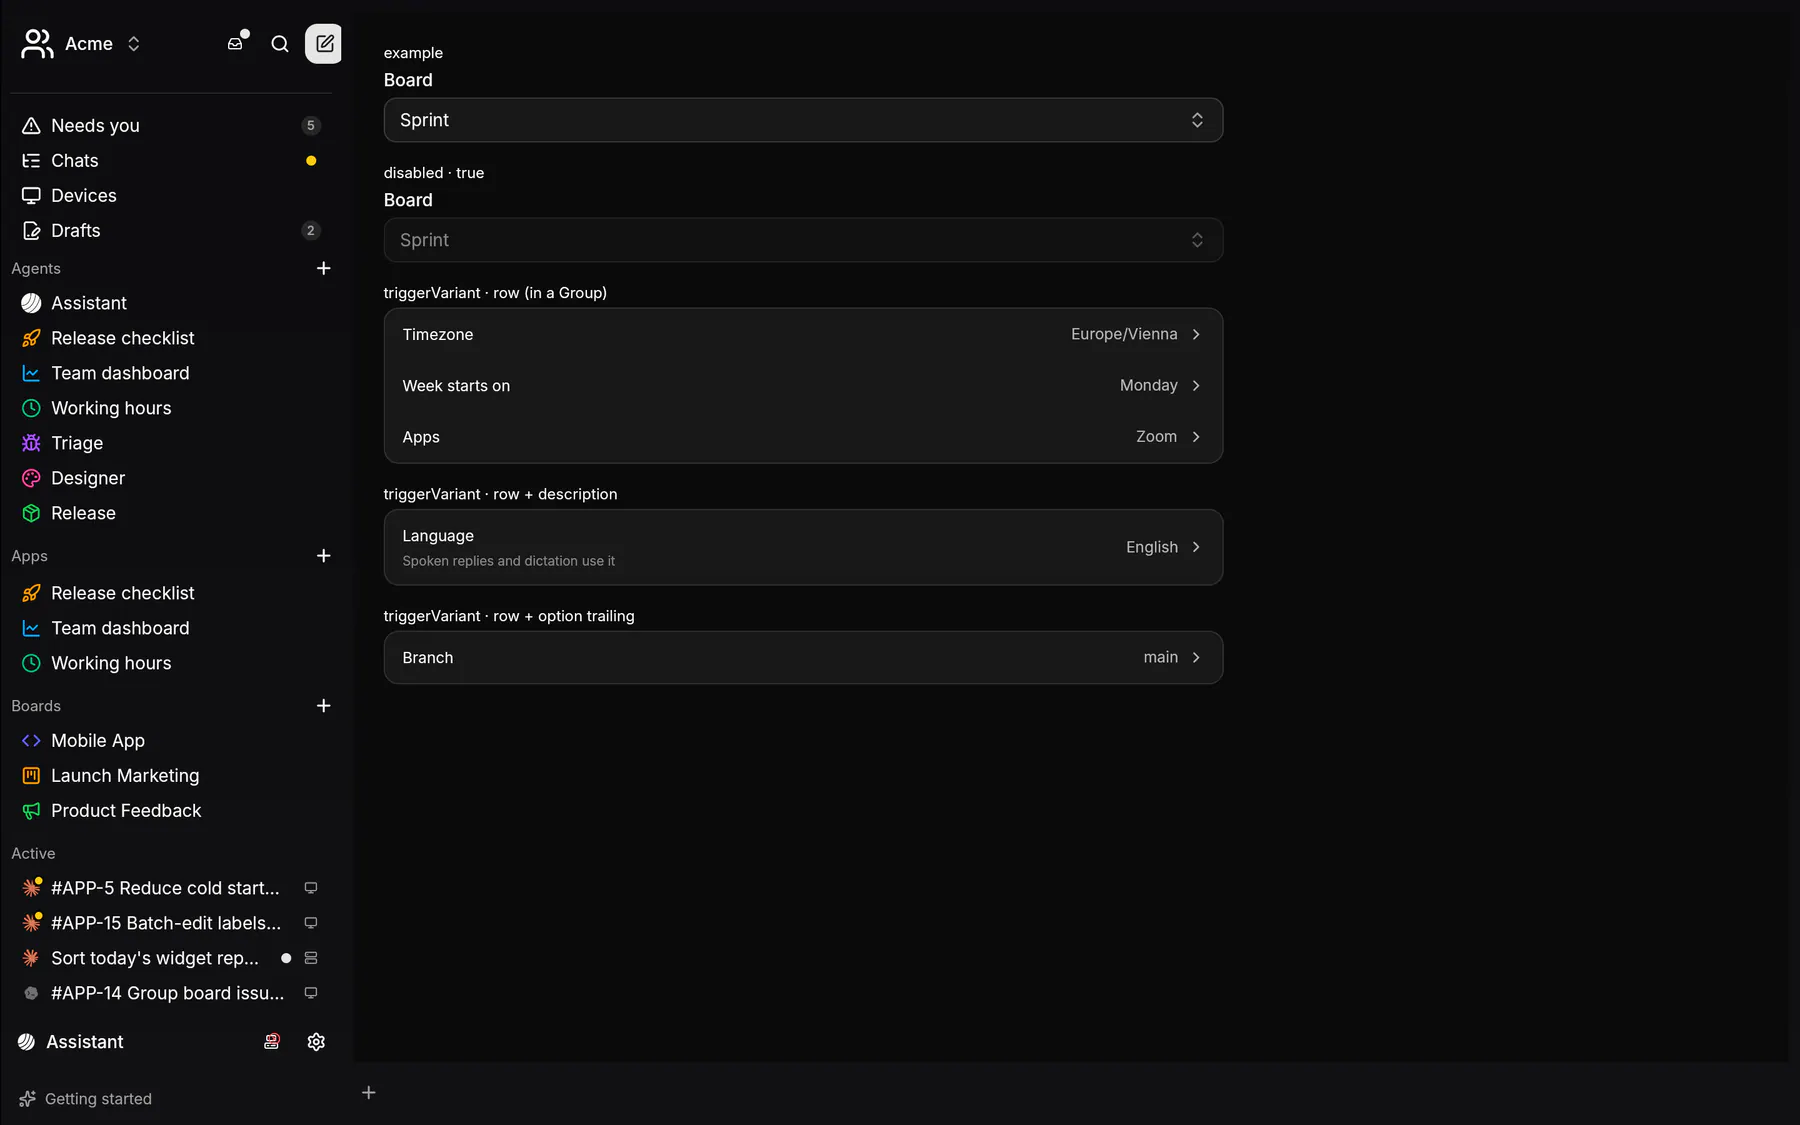
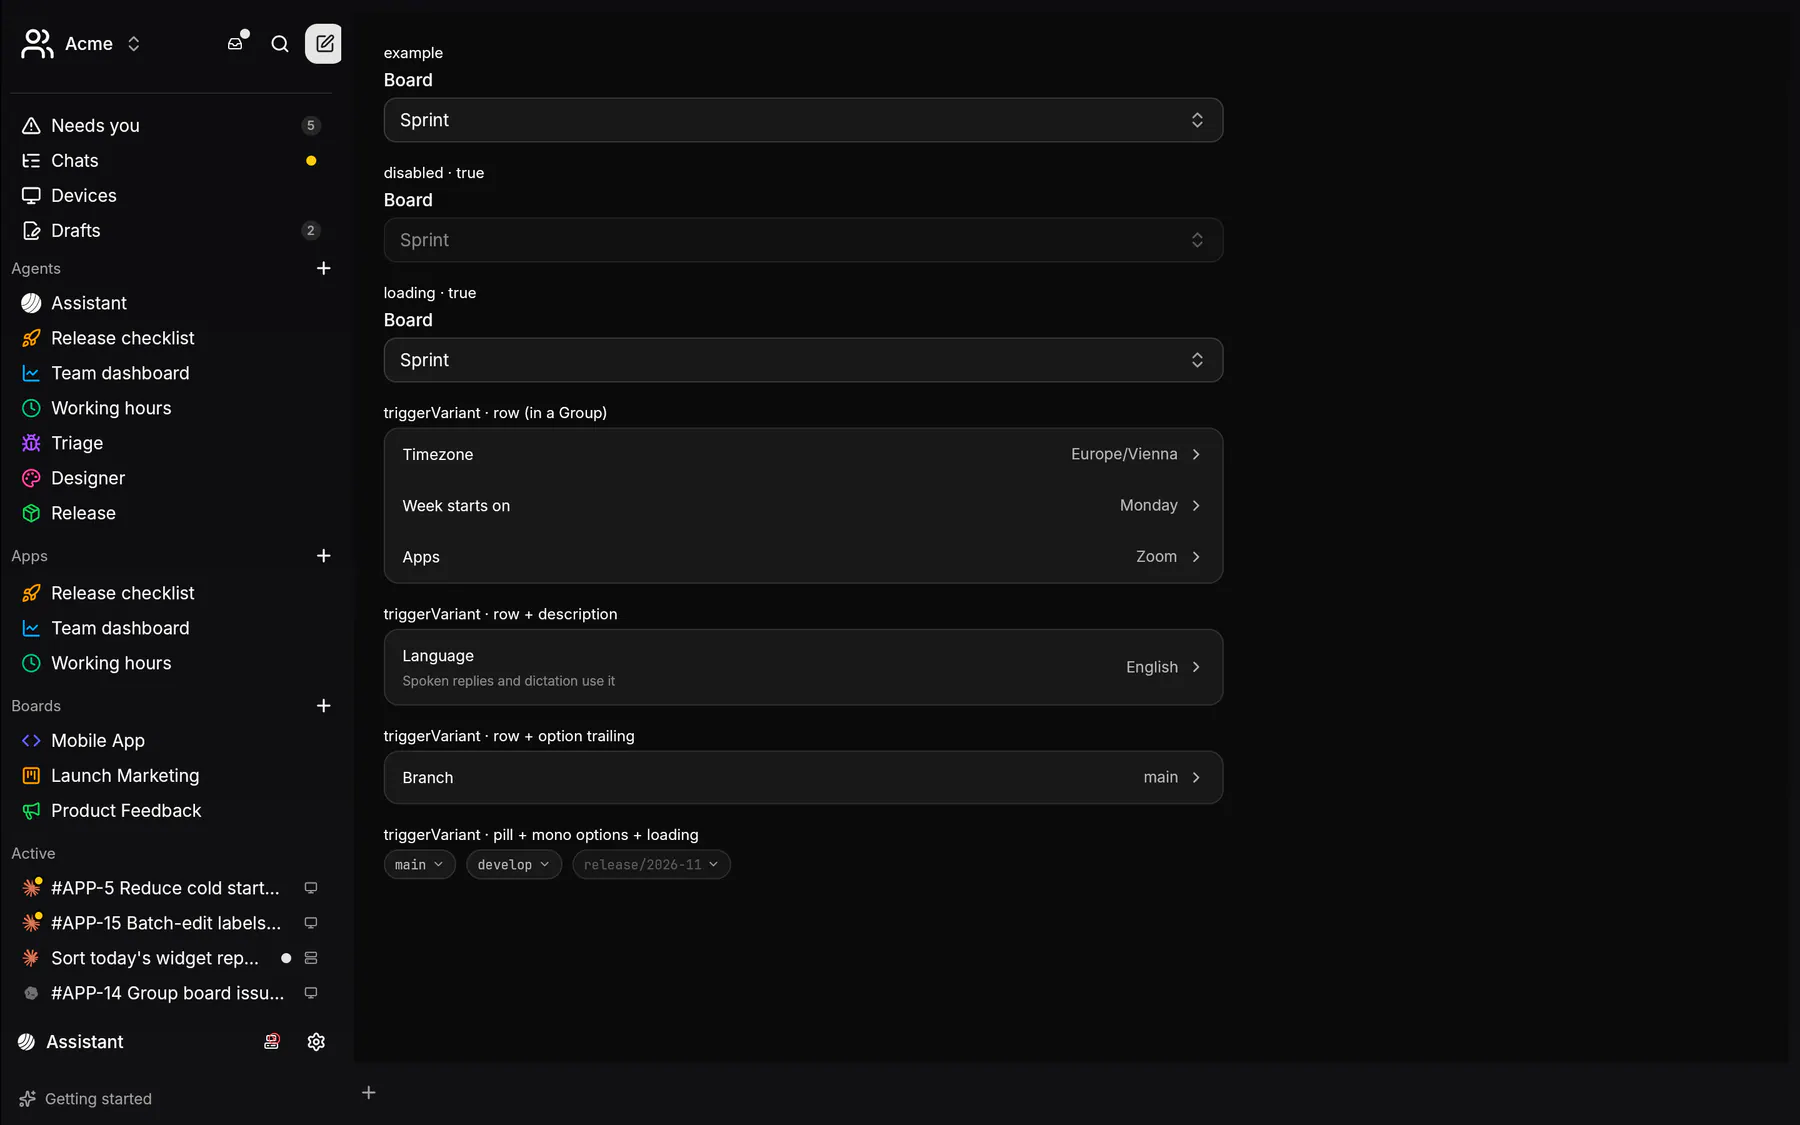
genUI Select: shots exponential-ui-select web, desktop, android (the pill row); the loading pill specimen carries its value (#EXP-1765)

diff --git a/packages/exponential-ui/scripts/generate.ts b/packages/exponential-ui/scripts/generate.ts
@@ -1062,7 +1062,7 @@ const SPECIMEN_EXTRA: Record<string, { label: string; node: NestedNode }[]> = {
       props: { direction: `horizontal`, gap: `sm`, align: `center` },
       children: [
         { id: `repo_branch`, component: `Select`, props: { label: `Default branch`, name: `repoBranch`, triggerVariant: `pill`, searchable: true, searchPlaceholder: `Search branches...`, value: `main`, options: [{ label: `main`, value: `main`, mono: true, trailing: `default` }, { label: `develop`, value: `develop`, mono: true }] }, on: { open: { event: { name: `loadBranches` } } } },
-        { id: `repo_branch_loading`, component: `Select`, props: { label: `Default branch (loading)`, name: `repoBranchLoading`, triggerVariant: `pill`, searchable: true, searchPlaceholder: `Search branches...`, value: `develop`, loading: true, options: [] } },
+        { id: `repo_branch_loading`, component: `Select`, props: { label: `Default branch (loading)`, name: `repoBranchLoading`, triggerVariant: `pill`, searchable: true, searchPlaceholder: `Search branches...`, value: `develop`, loading: true, options: [{ label: `develop`, value: `develop`, mono: true }] } },
         { id: `repo_branch_busy`, component: `Select`, props: { label: `Default branch (busy)`, name: `repoBranchBusy`, triggerVariant: `pill`, value: `release/2026-11`, disabled: true, options: [{ label: `release/2026-11`, value: `release/2026-11`, mono: true }] } },
       ],
     },

diff --git a/packages/exponential-ui-compose/ui-compose/src/test/kotlin/at/exponential/ui/InteractionTest.kt b/packages/exponential-ui-compose/ui-compose/src/test/kotlin/at/exponential/ui/InteractionTest.kt
@@ -544,7 +544,6 @@ class InteractionTest {
             m.fieldEdited(search(), "dev")
             advanceTimeBy(INPUT_DEBOUNCE_MS + 10)
             runCurrent()
-            println("DBG $variant text=${m.fieldText(search())} field=${m.field(search())} pending=${m.field(search())?.pendingChange} props=${m.node(search())?.props} items=${m.nodes.filter { it.owner == "s" && it.part == "item" }.map { it.id + ":" + it.hidden }}")
             assertEquals("$variant: filtered", listOf("s.item.1"), items())
             assertEquals("$variant: clear only on a pill", variant == "pill", m.selectSearchClearable(search()))
             if (variant != "pill") continue
